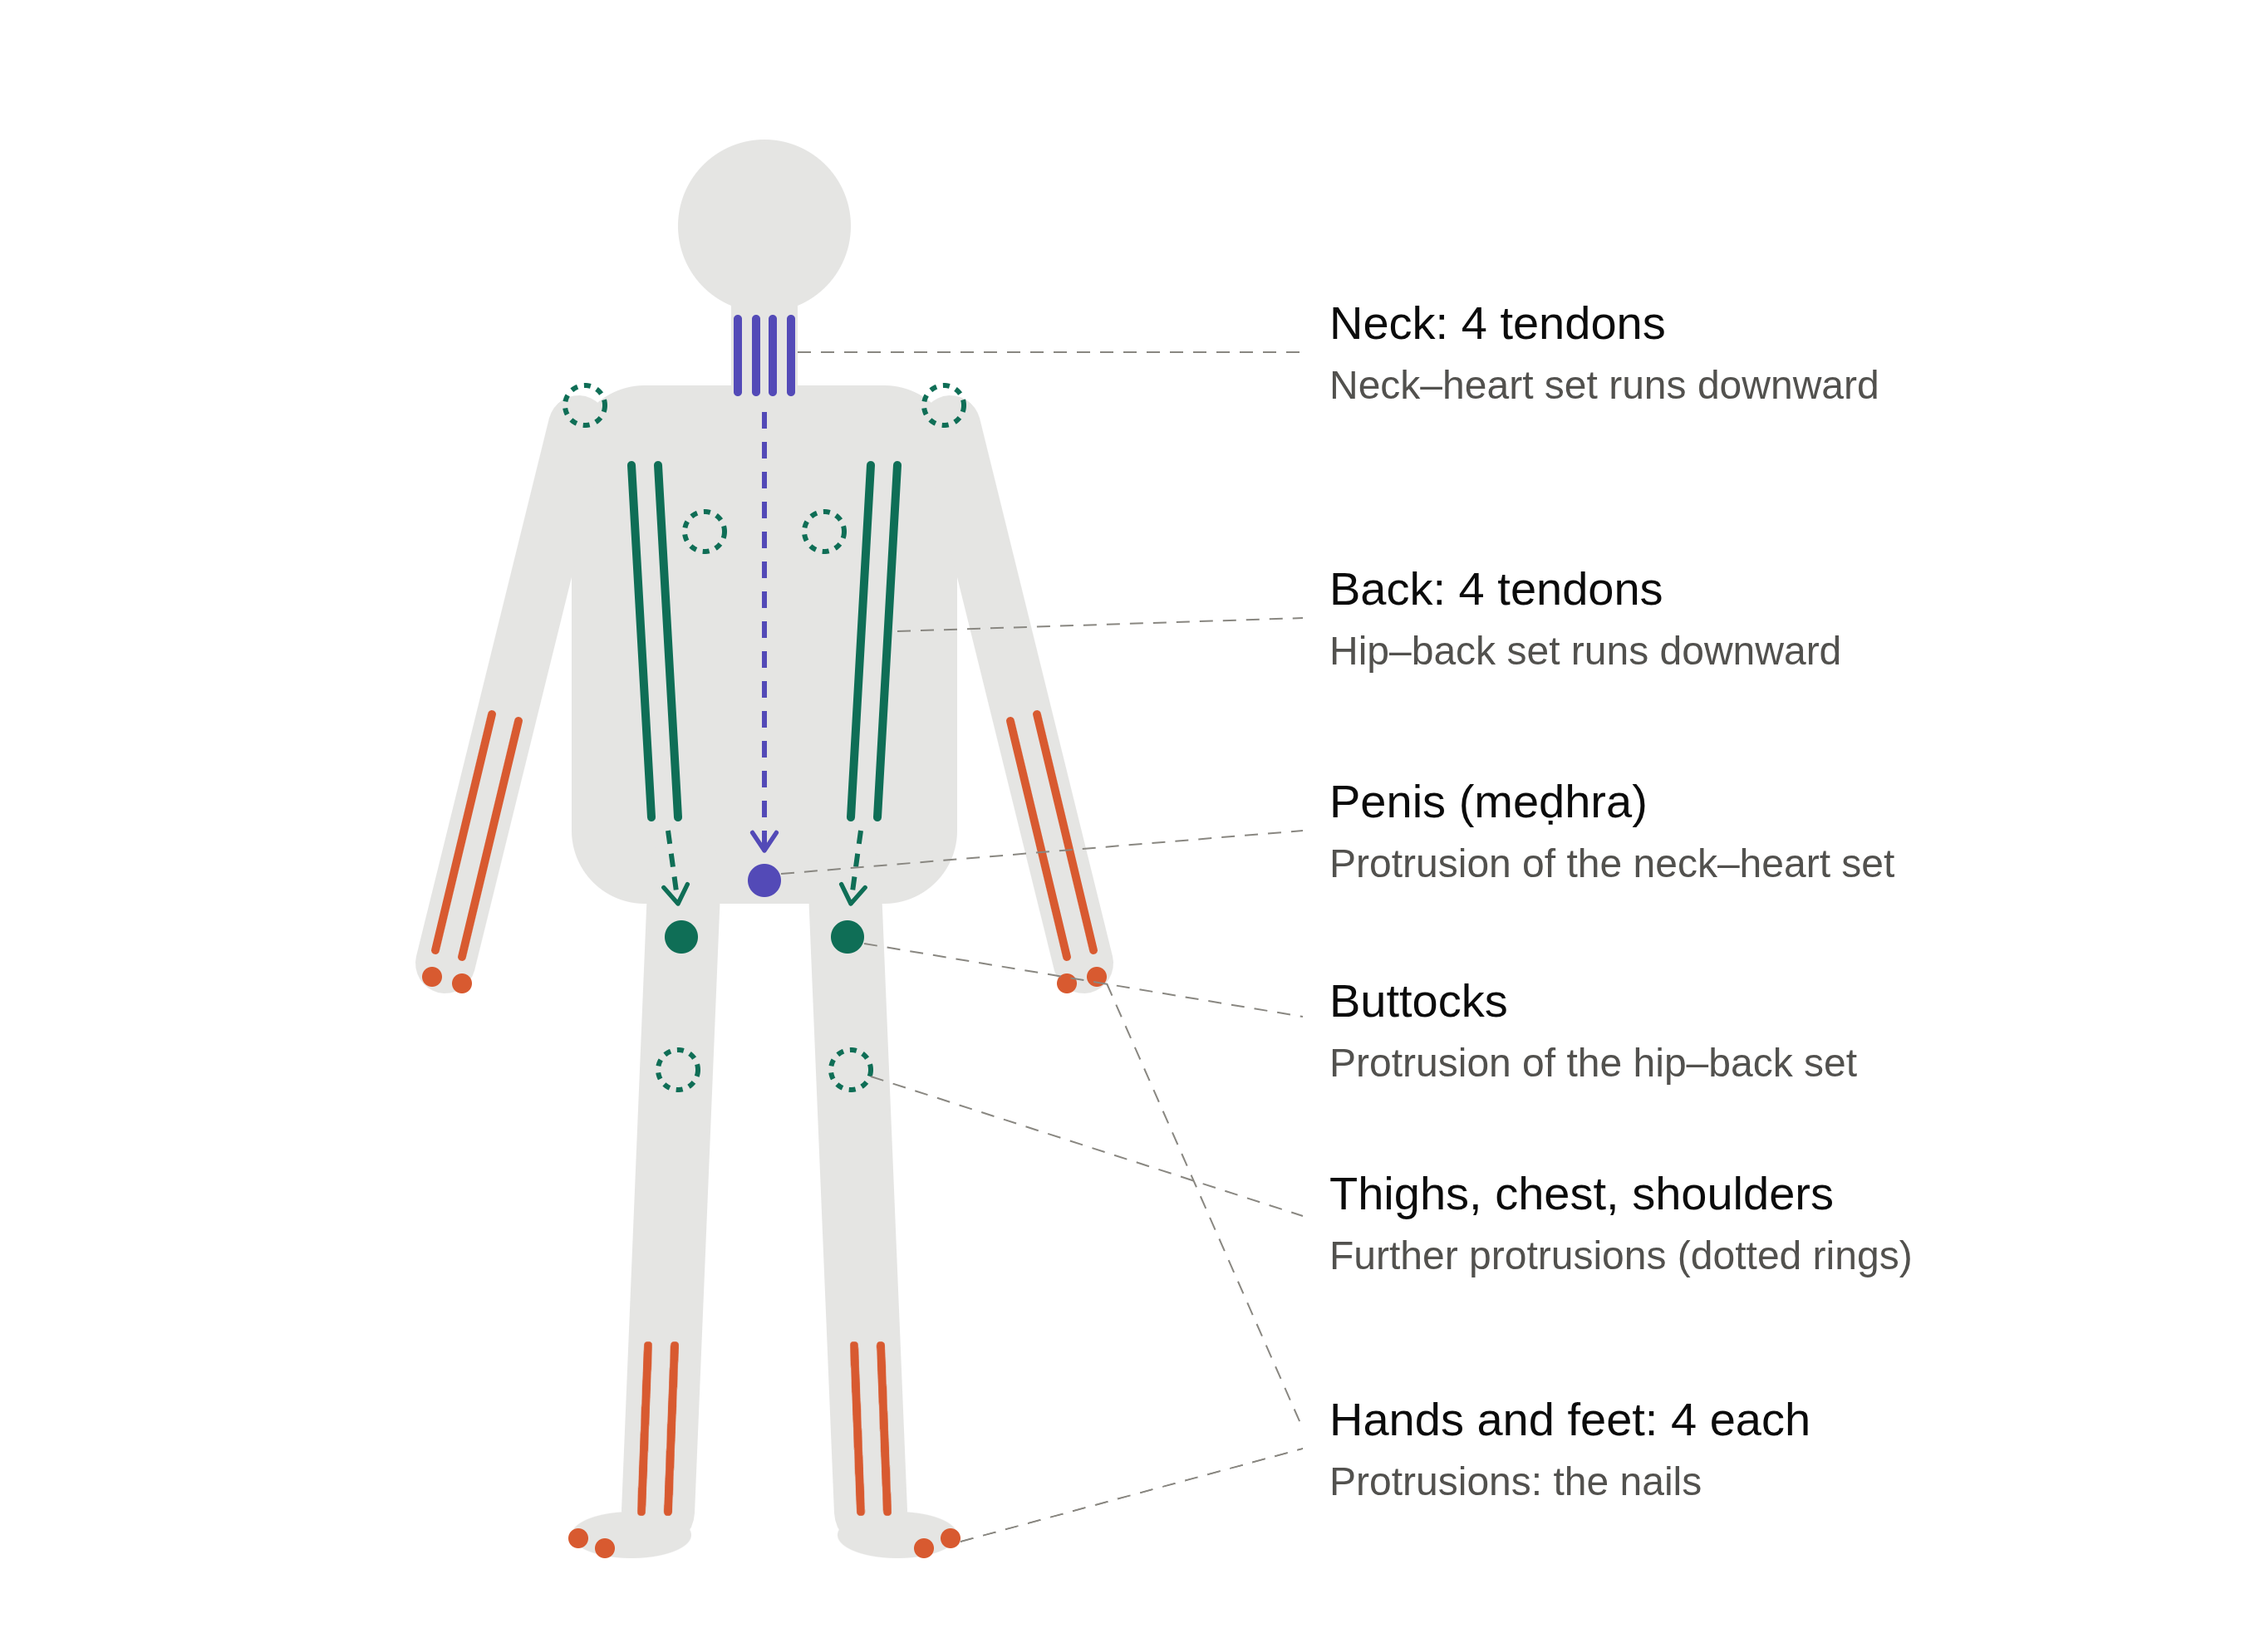
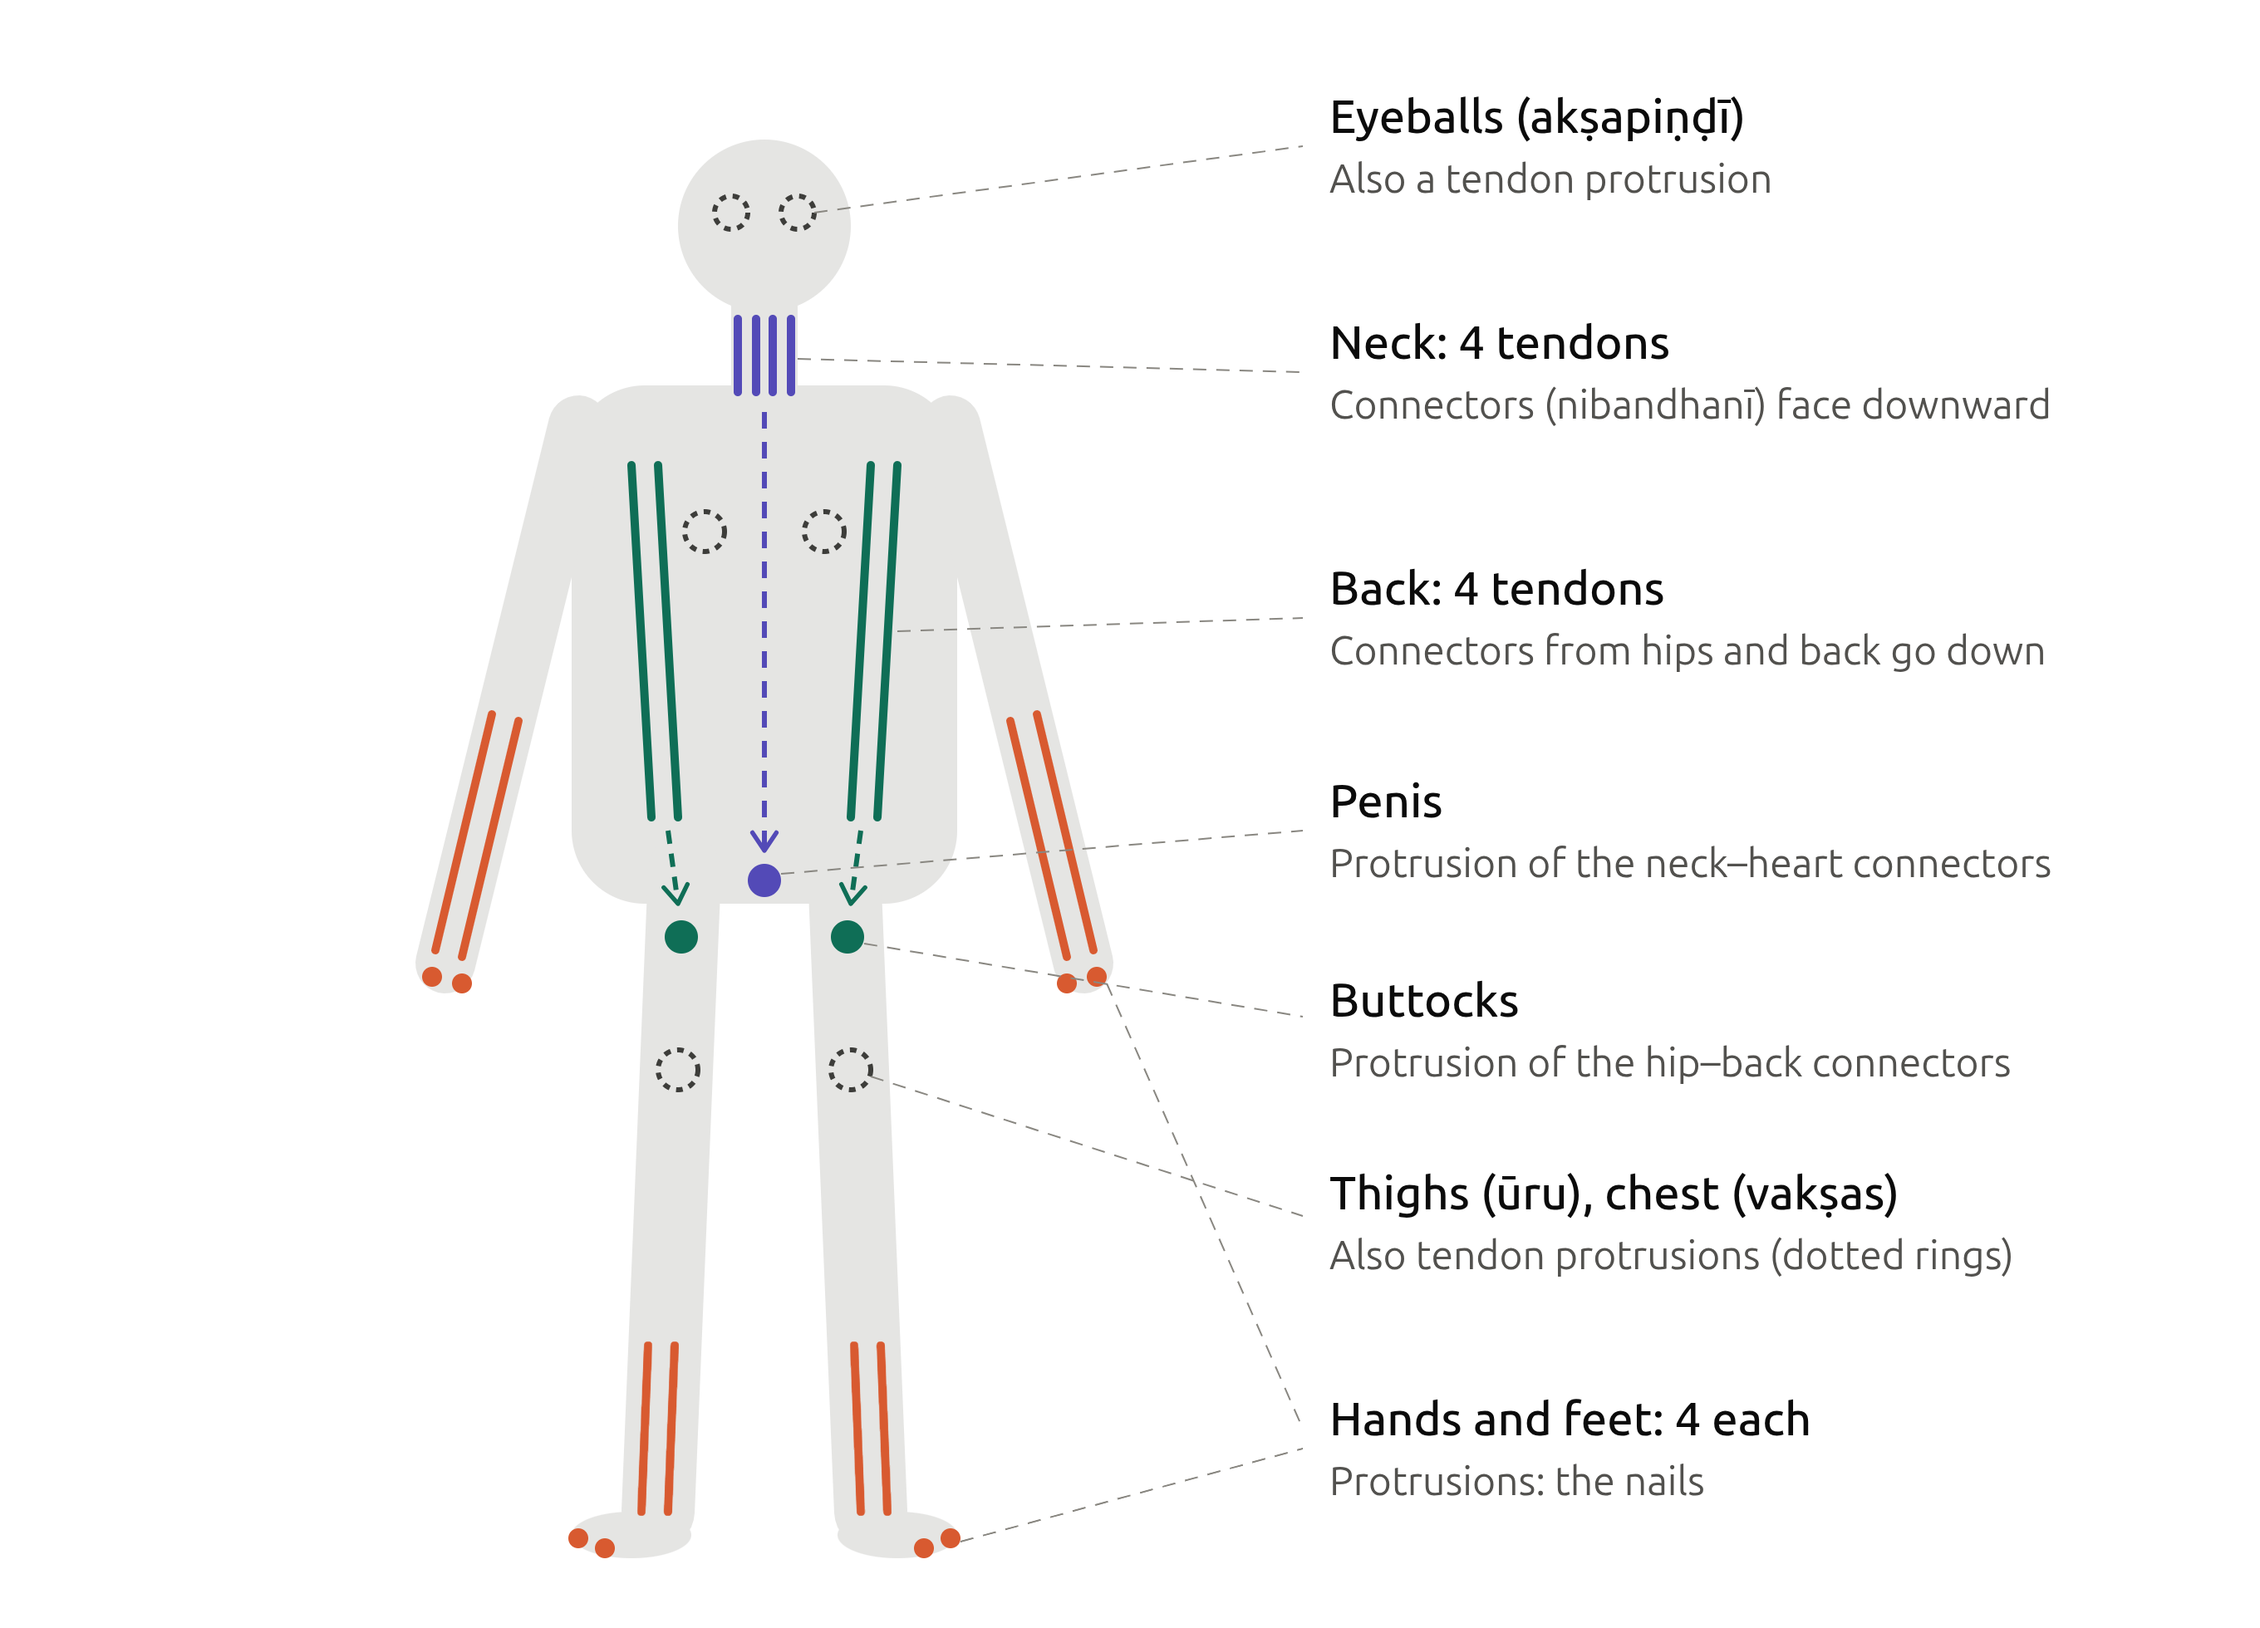
after seminar on 3.5.11

diff --git a/translation/chapters/translation 3-05.tex b/translation/chapters/translation 3-05.tex
@@ -102,7 +102,7 @@ three others. Two are in the breasts and another is below, carrying
 blood.
 
 \item[11]
-% TODO: \usepackage{graphicx} required
+
 \begin{figure}
     \centering
     \includegraphics[height=0.5\textheight]{media/sixteen_kandara_protrusions}
@@ -113,14 +113,17 @@ blood.
 There are sixteen \sepl{kaṇḍara}{large tendon}; of these, four are in
 the feet, and an equal number are in the hands, neck, and back. In
 that context, nails are the protrusions from the ends of the tendons
-located in the hands and feet; 
-the penis is the protrusions of those connecting from the neck and heart that 
-face downward; 
-the buttocks are the protrusions of those connecting from the hips and back 
-that go downwards, as are the \se{ūru}{thighs}, \se{vakṣas}{chest} and 
-\se{aṃsa}{shoulders} and so on. 
+located in the hands and feet; the penis is the protrusion of the
+\se{nibandhanī}{connectors} from the neck and heart that face
+downward; the buttocks are the protrusions of the connectors from the
+hips and back that go downwards, and such is the case for
+\se{ūru}{thighs}, \se{vakṣas}{chest}, 
+\se{akṣapiṇḍī}{eyeballs}, and so on.\footnote{As the edition apparatus
+    notes, this passage is interpreted differently in different
+    manuscripts and commentaries.  The thighs, etc., are also protrusions of 
+    tendons.}
 
-\gottohere
+\gottohere % got to here
 \item[12]
 There are four types of plexuses each—muscular, vascular, ligamentous, and bony—and these are situated in the wrists and ankles. By these, this body is overspread. 
 
